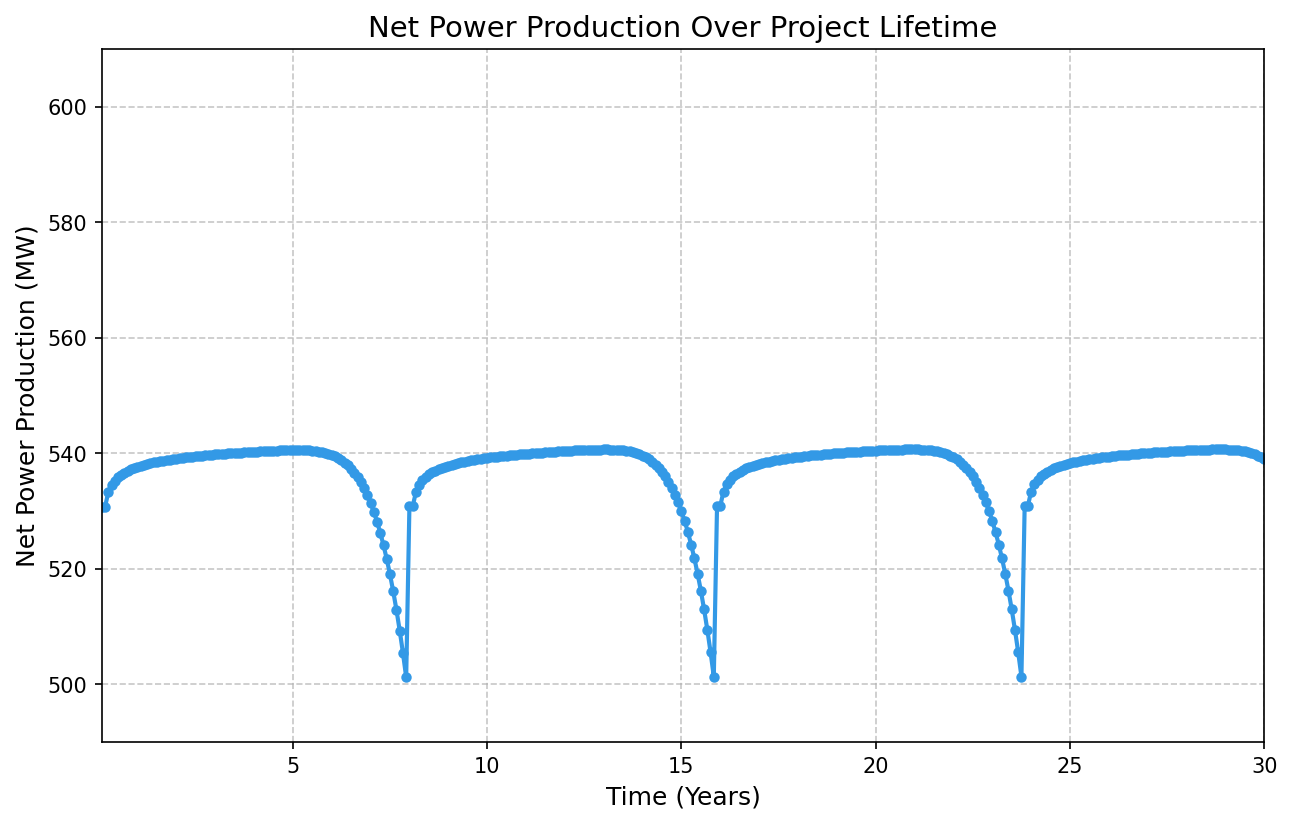
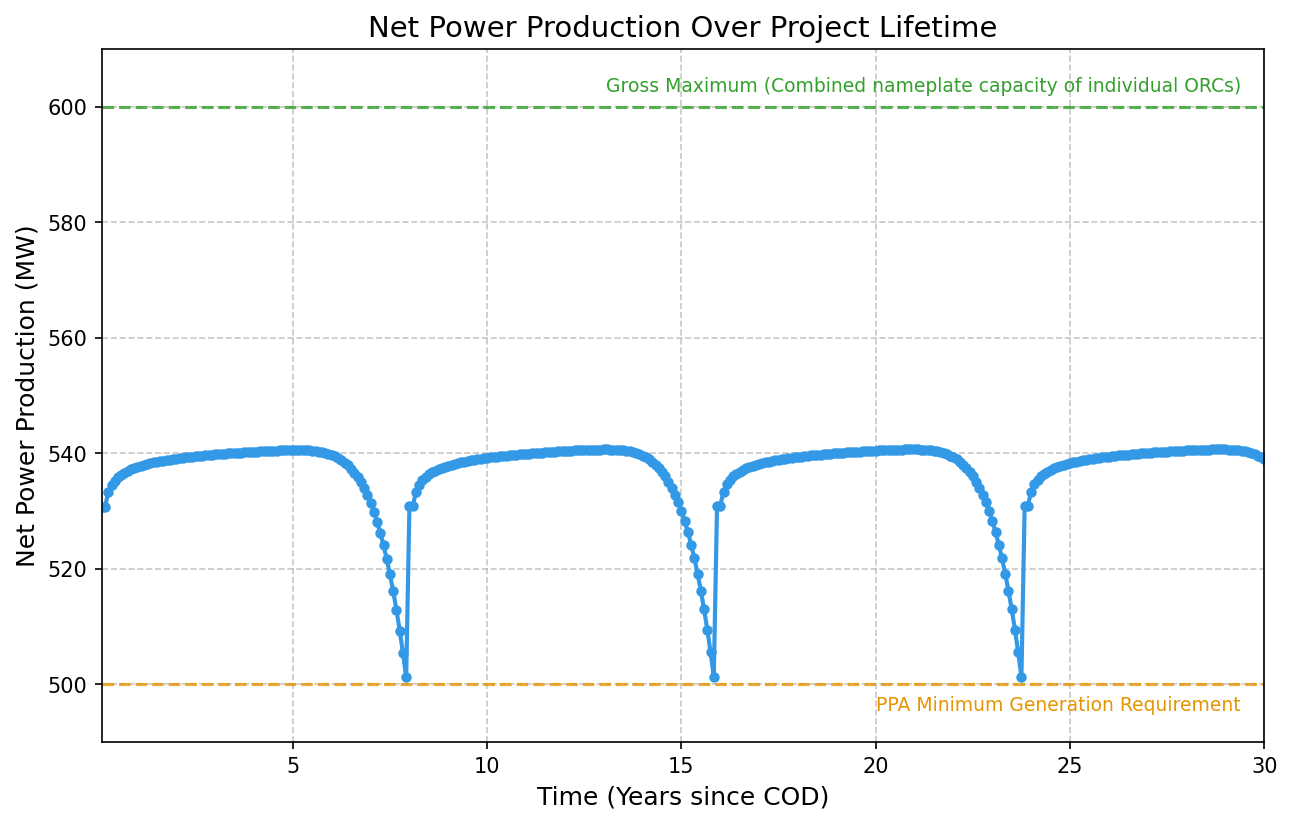
min gen and gross capacity lines

Changed region(s): [[0.4644, 0.091, 0.9598, 0.1214], [0.6811, 0.8192, 0.9598, 0.8799], [0.4025, 0.9405, 0.6502, 1.0]]

diff --git a/src/geophires_docs/generate_fervo_project_cape_5_graphs.py b/src/geophires_docs/generate_fervo_project_cape_5_graphs.py
@@ -62,13 +62,30 @@ def generate_net_power_graph(
     ax.plot(years, net_power, color='#3399e6', linewidth=2, marker='o', markersize=4)
 
     # Set labels and title
-    ax.set_xlabel('Time (Years)', fontsize=12)
+    ax.set_xlabel('Time (Years since COD)', fontsize=12)
     ax.set_ylabel('Net Power Production (MW)', fontsize=12)
     ax.set_title('Net Power Production Over Project Lifetime', fontsize=14)
 
     # Set axis limits
     ax.set_xlim(years.min(), years.max())
     ax.set_ylim(490, 610)
+
+    # Add horizontal reference lines
+    ax.axhline(y=500, color='#e69500', linestyle='--', linewidth=1.5, alpha=0.8)
+    ax.text(
+        years.max() * 0.98, 498, 'PPA Minimum Generation Requirement', ha='right', va='top', fontsize=9, color='#e69500'
+    )
+
+    ax.axhline(y=600, color='#33a02c', linestyle='--', linewidth=1.5, alpha=0.8)
+    ax.text(
+        years.max() * 0.98,
+        602,
+        'Gross Maximum (Combined nameplate capacity of individual ORCs)',
+        ha='right',
+        va='bottom',
+        fontsize=9,
+        color='#33a02c',
+    )
 
     # Add grid for better readability
     ax.grid(True, linestyle='--', alpha=0.7)
@@ -158,8 +175,10 @@ def generate_fervo_project_cape_5_graphs(
         singh_et_al_base_simulation_result: GeophiresXResult = singh_et_al_base_simulation[1]
 
         # generate_net_power_graph(
-        #     singh_et_al_base_simulation_result, output_dir, filename='singh_et_al_base_simulation-net-power-production.png'
+        #     singh_et_al_base_simulation_result, output_dir,
+        #     filename='singh_et_al_base_simulation-net-power-production.png'
         # )
+
         generate_production_temperature_graph(
             singh_et_al_base_simulation_result,
             output_dir,
